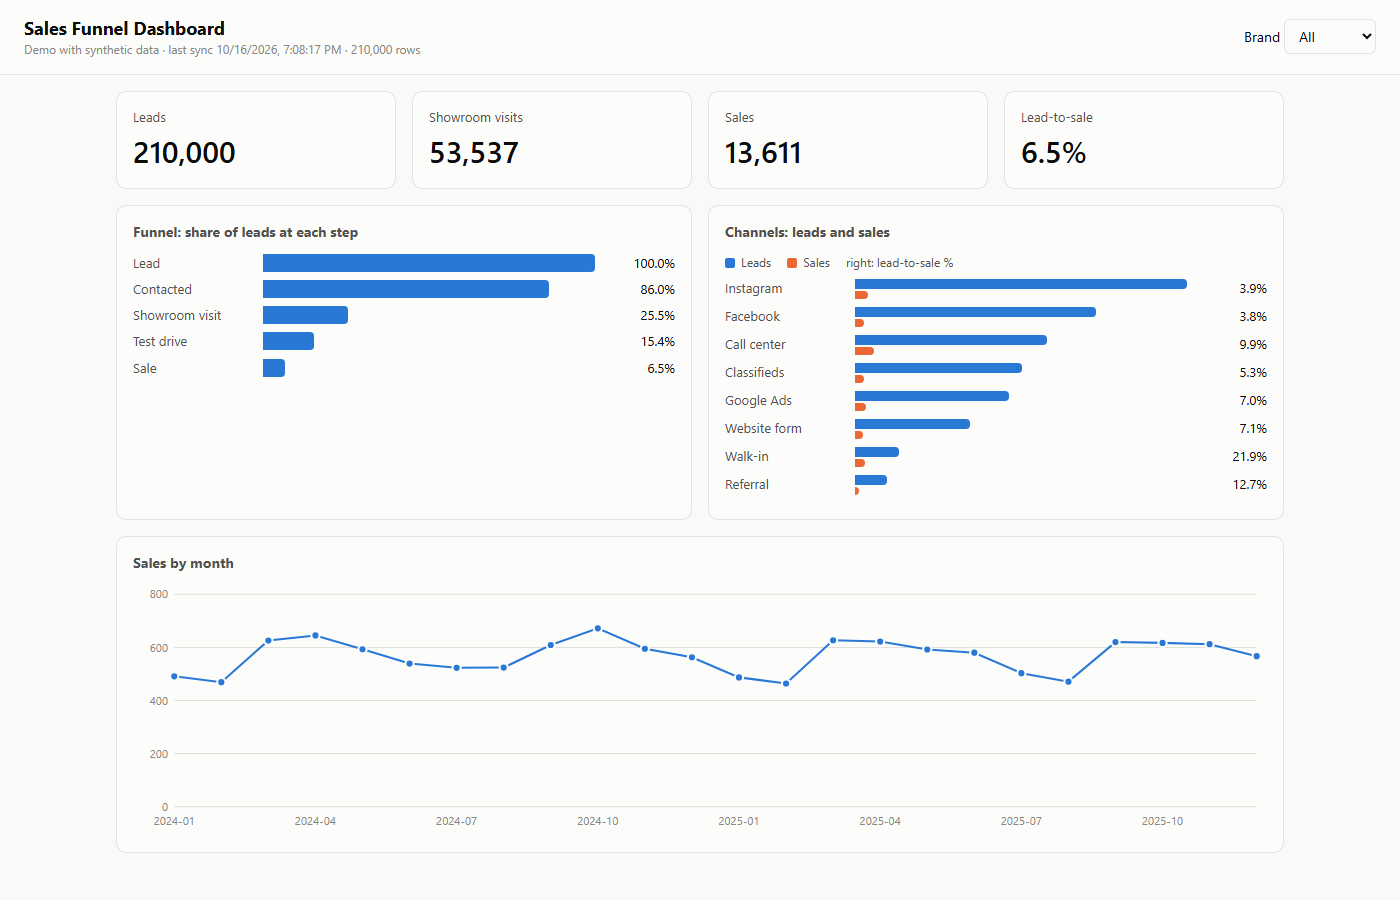
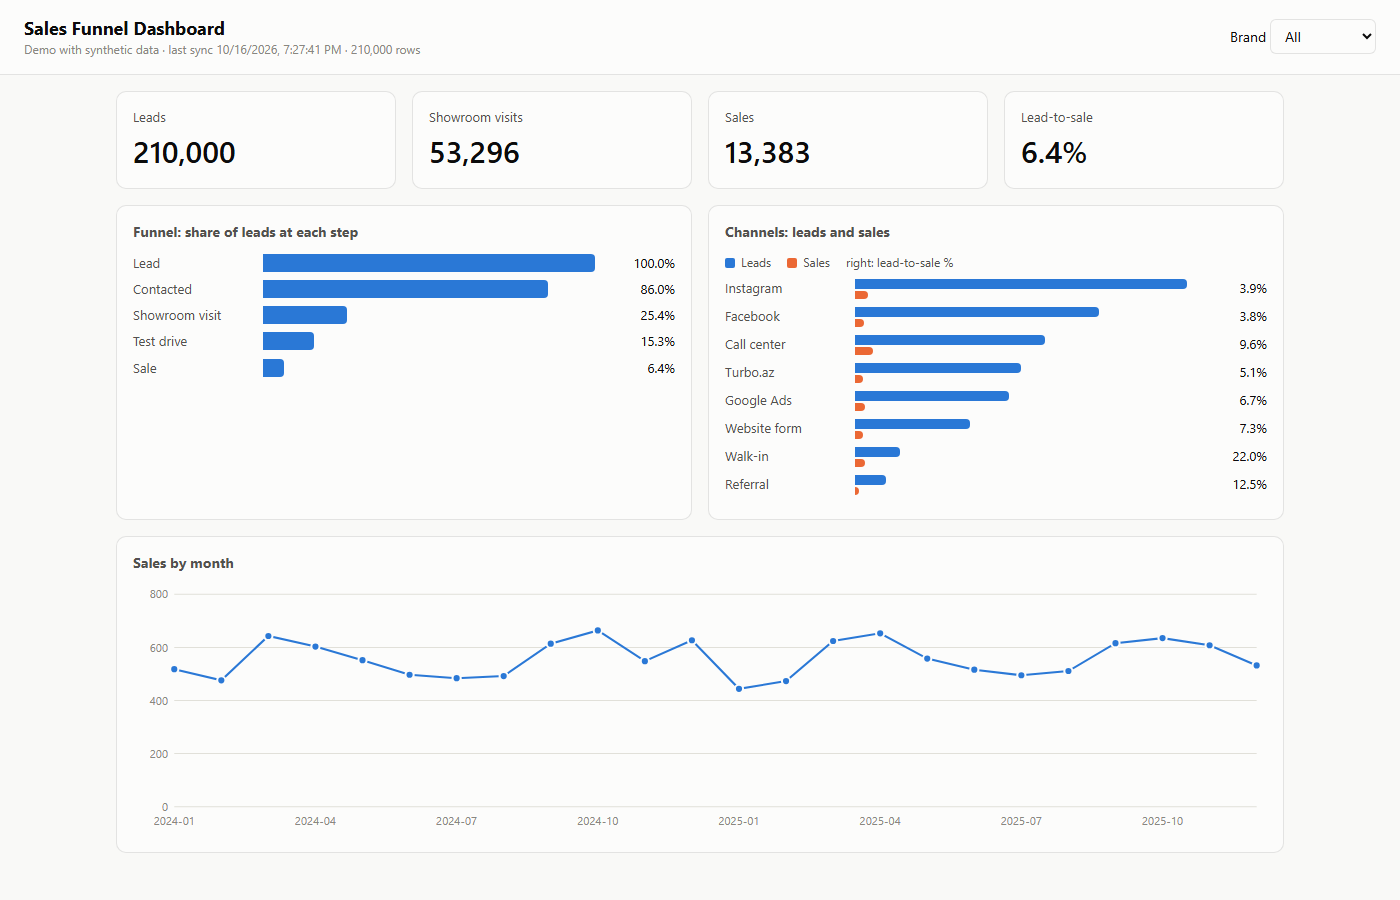
Use real model and channel names with synthetic numbers

diff --git a/tools/simulate_sync.py b/tools/simulate_sync.py
@@ -22,11 +22,11 @@ COLUMNS = ["lead_id", "created_at", "channel", "brand", "model",
            "contacted", "visited", "test_drive", "sold"]
 STATE_FILE = Path(__file__).resolve().parent / ".last_hash"
 
-CHANNELS = ["Instagram", "Facebook", "Classifieds", "Call center", "Google Ads", "Website form", "Walk-in", "Referral"]
+CHANNELS = ["Instagram", "Facebook", "Turbo.az", "Call center", "Google Ads", "Website form", "Walk-in", "Referral"]
 CHANNEL_P = [0.26, 0.19, 0.13, 0.15, 0.12, 0.09, 0.035, 0.025]
 VISIT_P = [0.18, 0.17, 0.25, 0.45, 0.32, 0.33, 1.00, 0.57]
-MODELS = {"Brand A": ["A1 Sedan", "A3 SUV", "A5 EV"], "Brand B": ["B2 Hatch", "B4 SUV", "B6 EV"],
-          "Brand C": ["C3 SUV", "C7 Pickup"]}
+MODELS = {"Toyota": ["Corolla", "RAV4", "bZ4X"], "Hyundai": ["i20", "Tucson", "Ioniq 5"],
+          "Mitsubishi": ["Outlander", "L200"]}  # real model names, synthetic numbers
 
 
 def synthetic_rows(n: int, seed: int) -> list[list]:

diff --git a/README.md b/README.md
@@ -33,7 +33,7 @@ flowchart LR
 
 ## Run it locally (no Google account needed)
 
-`tools/simulate_sync.py` does exactly what the Apps Script does (hash, gzip, chunks, same headers), using 210K synthetic rows.
+`tools/simulate_sync.py` does exactly what the Apps Script does (hash, gzip, chunks, same headers), using 210K synthetic rows (real model names such as Toyota RAV4 or Hyundai Tucson, generated numbers).
 
 ```bash
 pip install -r requirements.txt
